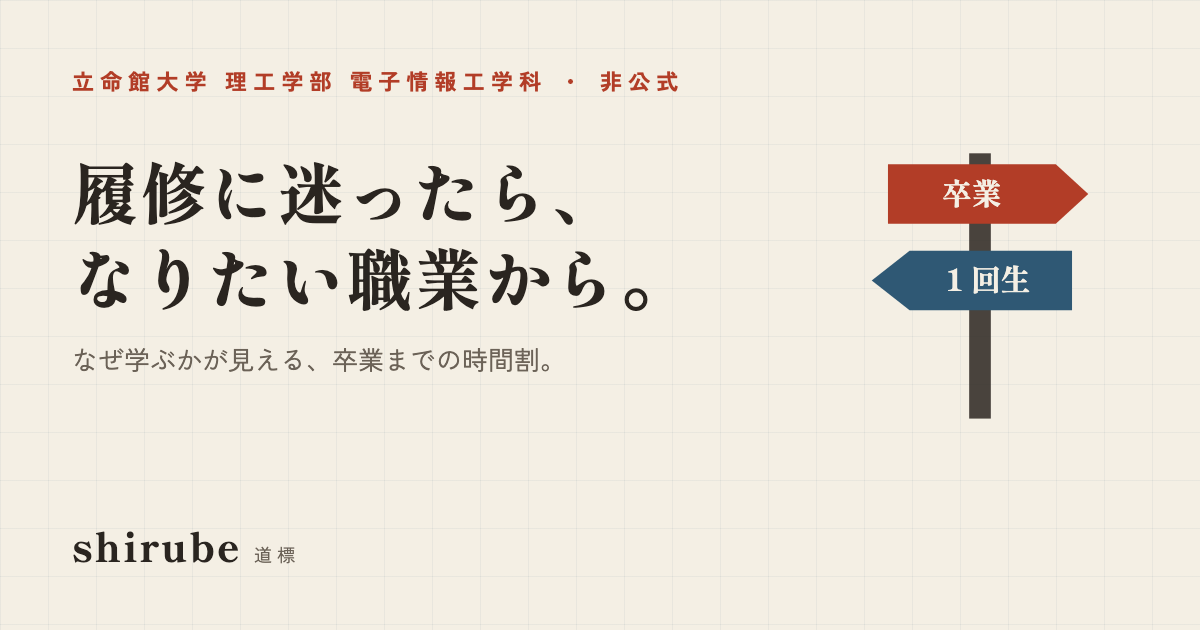
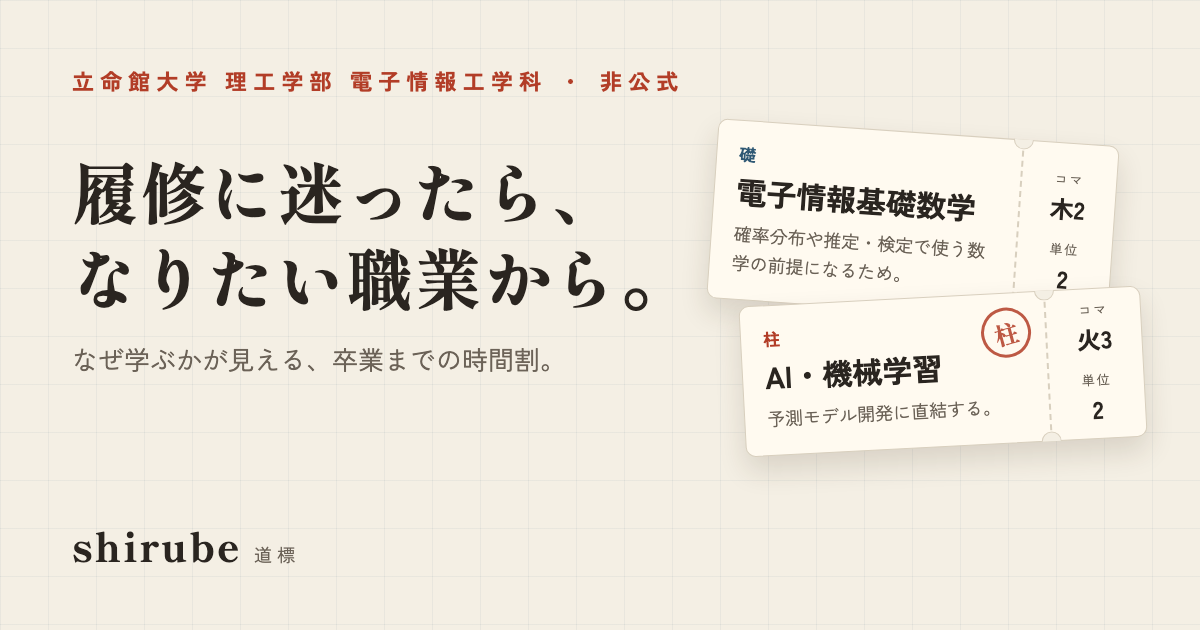
frontend: 共有カードの右の絵を道標から授業の切符 2 枚にし、代替の文が切符の授業名を言うかをテストで確かめる
高橋さんが、共有カードの右の道標の絵(卒業 / 1 回生)もダサいとした。3 体に 2 回採点させ(右の絵だけを替えた 9 案、作風の違う 11 案)、高橋さんは 1 回目の案から授業の切符を選んだ。

- 結果の画面の切符と同じ形(役割の札、授業名、理由、点線の先の半券にコマと単位、柱には朱の丸い判)で、見本の道標(データサイエンティスト)の実際の授業と理由の一部を載せた。手前は柱「AI・機械学習」(予測モデル開発に直結する。火3)、奥は礎「電子情報基礎数学」(木2)
- 採点で 3 体が挙げた弱いところに合わせ、授業名を大きくして(幅 400px で出ても読める)、奥の切符の授業名が手前の切符で隠れないようにずらした。柱の判が授業名に重ならないように右を空けた。全角の「ＡＩ」は間延びするので半角で描いた
- 代替の文に切符の絵を足した。代替の文がカードの切符の授業名を言うかを site.test.ts で確かめる(切符を替えて代替の文を直し忘れると落ちる)
- make.py で opengraph-image.png を撮り直した

Changed region(s): [[0.6167, 0.2413, 0.925, 0.6937], [0.8942, 0.5127, 0.925, 0.6032], [0.8942, 0.6333, 0.925, 0.6635]]

diff --git a/frontend/brand/opengraph-image.html b/frontend/brand/opengraph-image.html
@@ -64,12 +64,115 @@
         letter-spacing: 0.3em;
         color: #6b6257;
       }
-      .signpost {
+      .ticket {
         position: absolute;
-        right: 90px;
-        top: 110px;
-        width: 260px;
-        height: 314px;
+        display: grid;
+        grid-template-columns: minmax(0, 1fr) 96px;
+        width: 400px;
+        border: 1px solid #d8cfbe;
+        border-radius: 10px;
+        background: #fffaf0;
+        box-shadow: 0 14px 28px rgb(60 40 20 / 0.14);
+      }
+      .ticket .body {
+        display: grid;
+        align-content: start;
+        gap: 6px;
+        padding: 20px 22px 22px;
+      }
+      .ticket .role {
+        margin: 0;
+        font-size: 17px;
+        font-weight: 700;
+        letter-spacing: 0.14em;
+      }
+      .ticket .name {
+        margin: 0;
+        font-size: 30px;
+        font-weight: 700;
+        line-height: 1.3;
+      }
+      .ticket .reason {
+        margin: 2px 0 0;
+        font-size: 18px;
+        line-height: 1.6;
+        color: #6b6257;
+      }
+      .ticket .stub {
+        position: relative;
+        display: grid;
+        align-content: center;
+        gap: 14px;
+        margin: 0;
+        border-left: 2px dashed #d8cfbe;
+        text-align: center;
+      }
+      .ticket .stub::before,
+      .ticket .stub::after {
+        content: "";
+        position: absolute;
+        left: -11px;
+        width: 20px;
+        height: 20px;
+        box-sizing: border-box;
+        border: 1px solid #d8cfbe;
+        border-radius: 50%;
+        background: #f4efe4;
+      }
+      .ticket .stub::before {
+        top: -11px;
+        clip-path: inset(50% 0 0 0);
+      }
+      .ticket .stub::after {
+        bottom: -11px;
+        clip-path: inset(0 0 50% 0);
+      }
+      .ticket .stub dt {
+        font-size: 13px;
+        letter-spacing: 0.14em;
+        color: #6b6257;
+      }
+      .ticket .stub dd {
+        margin: 2px 0 0;
+        font-size: 24px;
+        font-weight: 700;
+      }
+      .foundation .role {
+        color: #2f5874;
+      }
+      .core .role {
+        color: #b23d27;
+      }
+      .core .name {
+        padding-right: 52px;
+      }
+      .stamp {
+        position: absolute;
+        top: 14px;
+        right: 110px;
+        display: grid;
+        place-items: center;
+        width: 50px;
+        height: 50px;
+        box-sizing: border-box;
+        border: 3px solid #b23d27;
+        border-radius: 50%;
+        color: #b23d27;
+        font-family: "Shippori Mincho", "Hiragino Mincho ProN", serif;
+        font-size: 24px;
+        font-weight: 800;
+        opacity: 0.85;
+        transform: rotate(-12deg);
+      }
+      .back {
+        top: 132px;
+        right: 86px;
+        transform: rotate(4deg);
+      }
+      .front {
+        top: 296px;
+        right: 56px;
+        transform: rotate(-3deg);
       }
     </style>
   </head>
@@ -78,32 +181,40 @@
     <h1 class="catch">履修に迷ったら、<br />なりたい職業から。</h1>
     <p class="sub">なぜ学ぶかが見える、卒業までの時間割。</p>
     <div class="brand">shirube<small>道標</small></div>
-    <svg class="signpost" viewBox="0 0 96 116" aria-hidden="true">
-      <rect x="44" y="16" width="8" height="98" fill="#2a2520" opacity="0.85" />
-      <path d="M14 20h62l12 11-12 11H14z" fill="#b23d27" />
-      <path d="M82 52H22L8 63l14 11h60z" fill="#2f5874" />
-      <text
-        x="45"
-        y="35"
-        text-anchor="middle"
-        fill="#f4efe4"
-        font-family="Shippori Mincho, serif"
-        font-size="11"
-        font-weight="700"
-      >
-        卒業
-      </text>
-      <text
-        x="51"
-        y="67"
-        text-anchor="middle"
-        fill="#f4efe4"
-        font-family="Shippori Mincho, serif"
-        font-size="11"
-        font-weight="700"
-      >
-        1 回生
-      </text>
-    </svg>
+    <article class="ticket foundation back">
+      <div class="body">
+        <p class="role">礎</p>
+        <p class="name">電子情報基礎数学</p>
+        <p class="reason">確率分布や推定・検定で使う数学の前提になるため。</p>
+      </div>
+      <dl class="stub">
+        <div>
+          <dt>コマ</dt>
+          <dd>木2</dd>
+        </div>
+        <div>
+          <dt>単位</dt>
+          <dd>2</dd>
+        </div>
+      </dl>
+    </article>
+    <article class="ticket core front">
+      <div class="body">
+        <p class="role">柱</p>
+        <p class="name">AI・機械学習</p>
+        <p class="reason">予測モデル開発に直結する。</p>
+      </div>
+      <dl class="stub">
+        <div>
+          <dt>コマ</dt>
+          <dd>火3</dd>
+        </div>
+        <div>
+          <dt>単位</dt>
+          <dd>2</dd>
+        </div>
+      </dl>
+      <span class="stamp">柱</span>
+    </article>
   </body>
 </html>

diff --git a/frontend/src/lib/site.test.ts b/frontend/src/lib/site.test.ts
@@ -23,6 +23,17 @@ describe("the share card", () => {
     expect(alt).toContain(CATCHPHRASE.join("") + SUBHEAD);
   });
 
+  it("names the courses on its tickets in the alt text", () => {
+    const courses = [
+      ...card.matchAll(/<p class="name">\s*([^<]+?)\s*<\/p>/g),
+    ].map((match) => match[1]);
+
+    expect(courses).not.toHaveLength(0);
+    for (const course of courses) {
+      expect(alt).toContain(course);
+    }
+  });
+
   it("ends the alt text without a line break, which Next would copy into og:image:alt", () => {
     expect(alt).toBe(alt.trim());
   });
